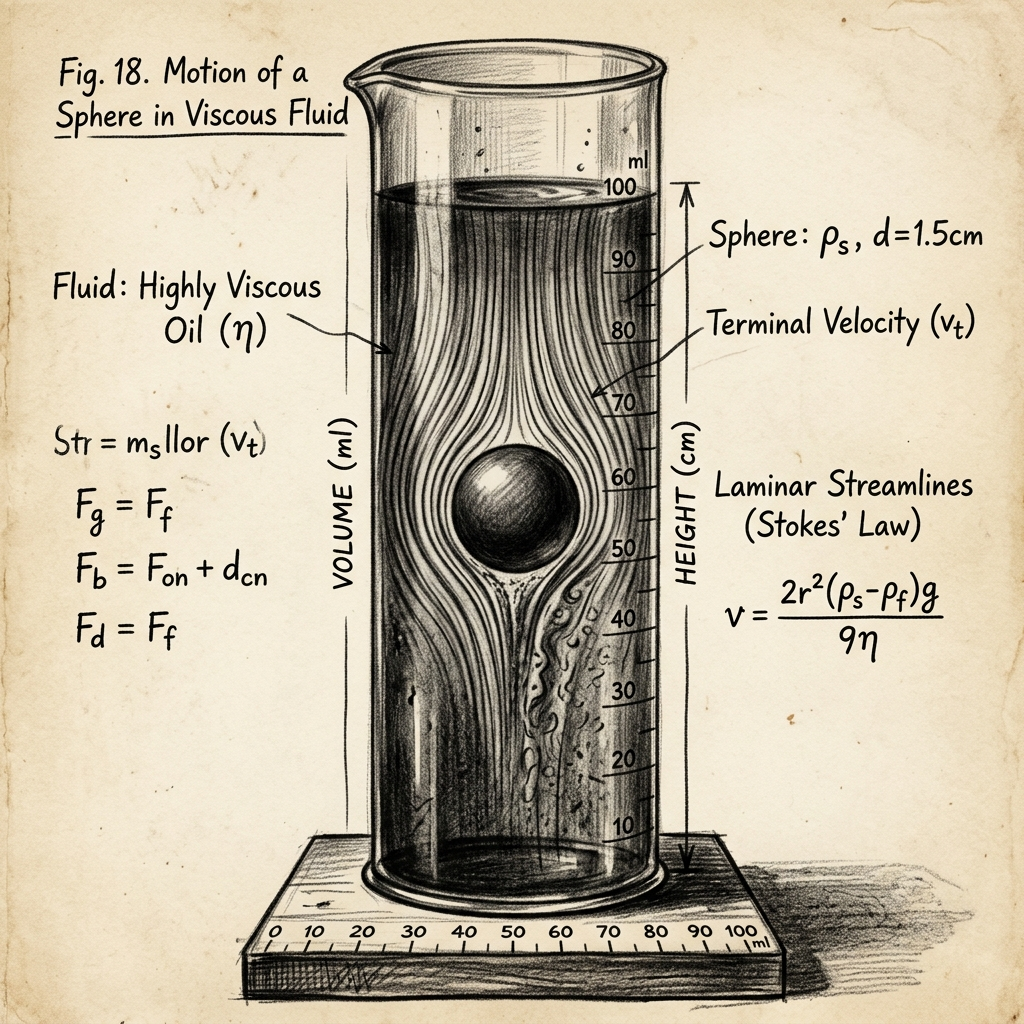
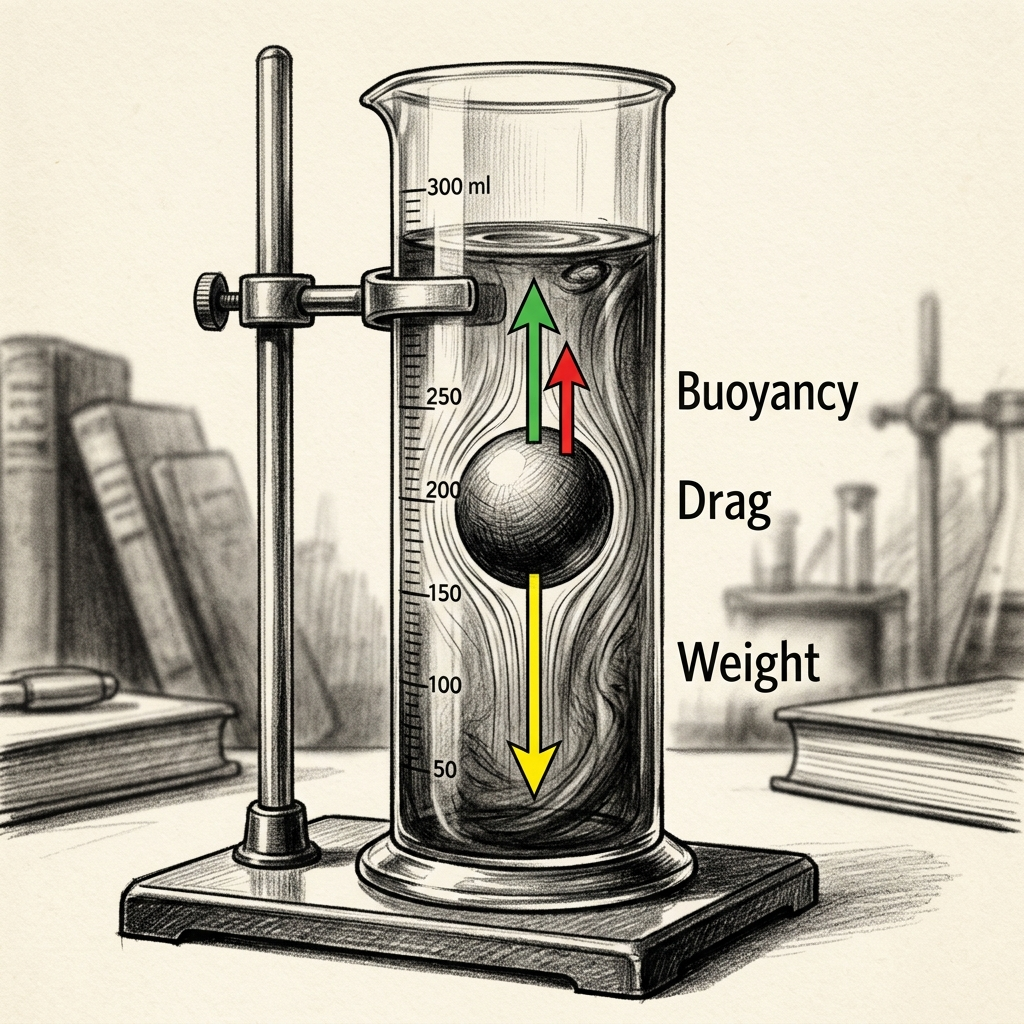
Update Stokes Law image, add viscosity derivation, and style gravitational slingshot

diff --git a/data/content/kinematics.html b/data/content/kinematics.html
@@ -538,7 +538,7 @@ img.color-exception {
         <img src="images/voyager_probe_deep_space.jpg" alt="Voyager 1 deep space probe" class="color-exception" style="width: 100%; max-width: 600px; border-radius: 12px; display: block; margin: 0 auto; border: 1px solid #e5e7eb;">
     </div>
     
-    <p style="font-size: 1.1rem; line-height: 1.7; color: #374151;">Even in the deepest abysses of space, true rest remains out of reach. When NASA’s <strong>Voyager 1</strong> probe flew past Jupiter, it executed a <strong class="glossary-term" style="cursor: help; color: #111827;">gravitational slingshot<span class="glossary-tooltip"><span class="glossary-tooltip-title">Gravitational Slingshot</span>A maneuver in space flight where the gravity of a planet is used to alter the path and speed of a spacecraft.</span></strong>. By diving deep into Jupiter’s gravity well, Voyager stole a tiny fraction of Jupiter’s orbital energy, accelerating the probe to over <strong>38,000 mph</strong> relative to the Sun while imperceptibly slowing Jupiter in its orbit. The probe didn't generate motion out of nowhere; it traded momentum in an intricate, multi-body kinetic dance.</p>
+    <p style="font-size: 1.1rem; line-height: 1.7; color: #374151;">Even in the deepest abysses of space, true rest remains out of reach. When NASA’s <strong>Voyager 1</strong> probe flew past Jupiter, it executed a <strong class="glossary-term" style="cursor: help; color: #7e22ce;">gravitational slingshot<span class="glossary-tooltip"><span class="glossary-tooltip-title">Gravitational Slingshot</span>A maneuver in space flight where the gravity of a planet is used to alter the path and speed of a spacecraft.</span></strong>. By diving deep into Jupiter’s gravity well, Voyager stole a tiny fraction of Jupiter’s orbital energy, accelerating the probe to over <strong>38,000 mph</strong> relative to the Sun while imperceptibly slowing Jupiter in its orbit. The probe didn't generate motion out of nowhere; it traded momentum in an intricate, multi-body kinetic dance.</p>
     
     <p style="font-size: 1.1rem; line-height: 1.7; color: #374151;">From a book resting on a desk to Voyager 1 traversing interstellar dark, every object in the universe is locked in continuous, compounding motion. Nothing is truly fixed, nothing is static, and "standing still" is always a matter of perspective.</p>
 </div>
@@ -1407,6 +1407,20 @@ $$\text{Average Speed} = \frac{\text{Total Distance}}{\text{Total Time}} \qquad 
     <img src="images/karakalem_stokes_law.jpg" class="color-exception" alt="Stokes Law Viscous Fluid Diagram" style="width: 100%; max-width: 500px; border-radius: 8px; border: 2.5px solid #22c55e; box-shadow: 0 4px 15px rgba(34, 197, 94, 0.4);">
     <p style="font-family: 'Caveat', cursive, sans-serif; font-size: 1.1rem; color: #666; margin-top: 0.5rem;">A sphere falling through a highly viscous fluid exhibits laminar flow.</p>
 </div>
+
+<div style="background: #f8fafc; border: 2px solid #e2e8f0; border-radius: 12px; padding: 2rem; margin: 2.5rem 0;">
+    <h4 style="margin-top: 0; color: #1e293b; font-size: 1.2rem;">Deriving Viscosity ($\eta$) from Stokes' Law</h4>
+    <p style="color: #334155; line-height: 1.7; margin-bottom: 1rem;">When the falling sphere reaches terminal velocity ($v_t$), the net force acting on it is zero. The downward force (Weight) is perfectly balanced by the upward forces (Buoyancy and Drag):</p>
+    <p style="text-align: center; font-weight: 600; color: #0f172a; margin-bottom: 1rem;">$\text{Weight} = \text{Buoyancy} + \text{Drag}$</p>
+    <p style="text-align: center; margin-bottom: 1rem;">$\frac{4}{3} \pi r^3 \rho_s g = \frac{4}{3} \pi r^3 \rho_f g + 6 \pi \eta r v_t$</p>
+    <p style="color: #334155; line-height: 1.7; margin-bottom: 1rem;">Where $\rho_s$ is the density of the sphere and $\rho_f$ is the density of the fluid. We can rearrange this to solve for the drag force:</p>
+    <p style="text-align: center; margin-bottom: 1rem;">$6 \pi \eta r v_t = \frac{4}{3} \pi r^3 g (\rho_s - \rho_f)$</p>
+    <p style="color: #334155; line-height: 1.7; margin-bottom: 1.5rem;">Finally, isolating the dynamic viscosity ($\eta$) gives us the formula used in experimental falling-sphere viscometers:</p>
+    <div style="text-align: center; padding: 1.5rem; background: #ffffff; border: 2.5px solid #8b5cf6; border-radius: 12px; box-shadow: 0 4px 10px rgba(139, 92, 246, 0.15);">
+        <p style="font-size: 1.5rem; font-weight: 700; color: #4c1d95; margin: 0;">$\eta = \frac{2 r^2 g (\rho_s - \rho_f)}{9 v_t}$</p>
+    </div>
+</div>
+
 
 <!-- Stokes Example 1 -->
 <div class="worked-example-box" style="background: #ffffff; border: 2.5px solid #22c55e; border-radius: 16px; padding: 2rem; margin: 2.5rem 0; box-shadow: 0 4px 15px rgba(34, 197, 94, 0.12);">
